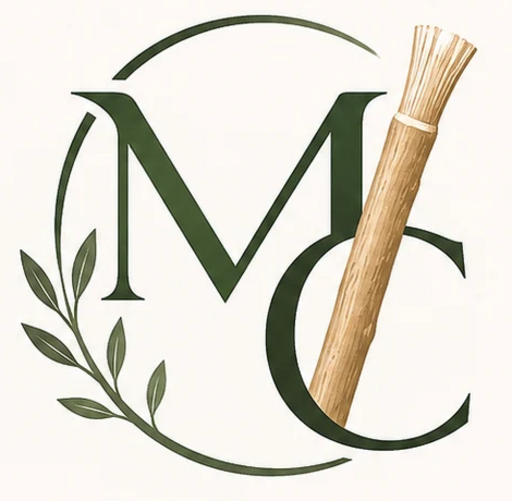
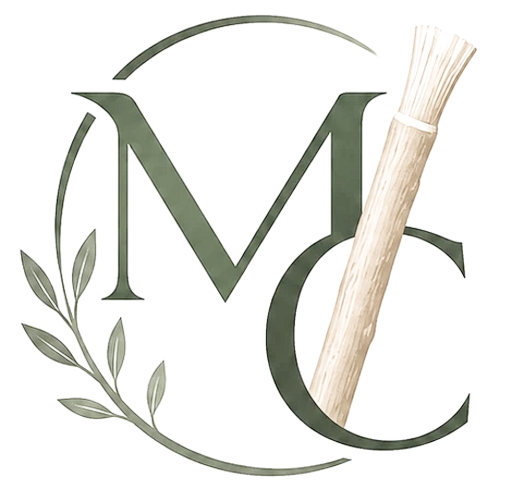
fix: transparent mark asset and reset waitlist form on modal open

Changed region(s): [[0.0312, 0.0299, 0.9375, 0.9581]]

diff --git a/src/components/waitlist/WaitlistProvider.tsx b/src/components/waitlist/WaitlistProvider.tsx
@@ -30,6 +30,7 @@ export function useWaitlist(): WaitlistContextValue {
 
 export function WaitlistProvider({ children }: { children: ReactNode }) {
   const [isOpen, setIsOpen] = useState(false);
+  const [session, setSession] = useState(0);
 
   useEffect(() => {
     captureAttribution();
@@ -37,6 +38,7 @@ export function WaitlistProvider({ children }: { children: ReactNode }) {
 
   const open = useCallback((source: string) => {
     trackEvent("waitlist_cta_clicked", { source });
+    setSession((current) => current + 1);
     setIsOpen(true);
   }, []);
 
@@ -51,6 +53,7 @@ export function WaitlistProvider({ children }: { children: ReactNode }) {
         labelledBy="waitlist-modal-heading"
       >
         <WaitlistForm
+          key={session}
           headingId="waitlist-modal-heading"
           source="modal"
           onDone={() => undefined}
